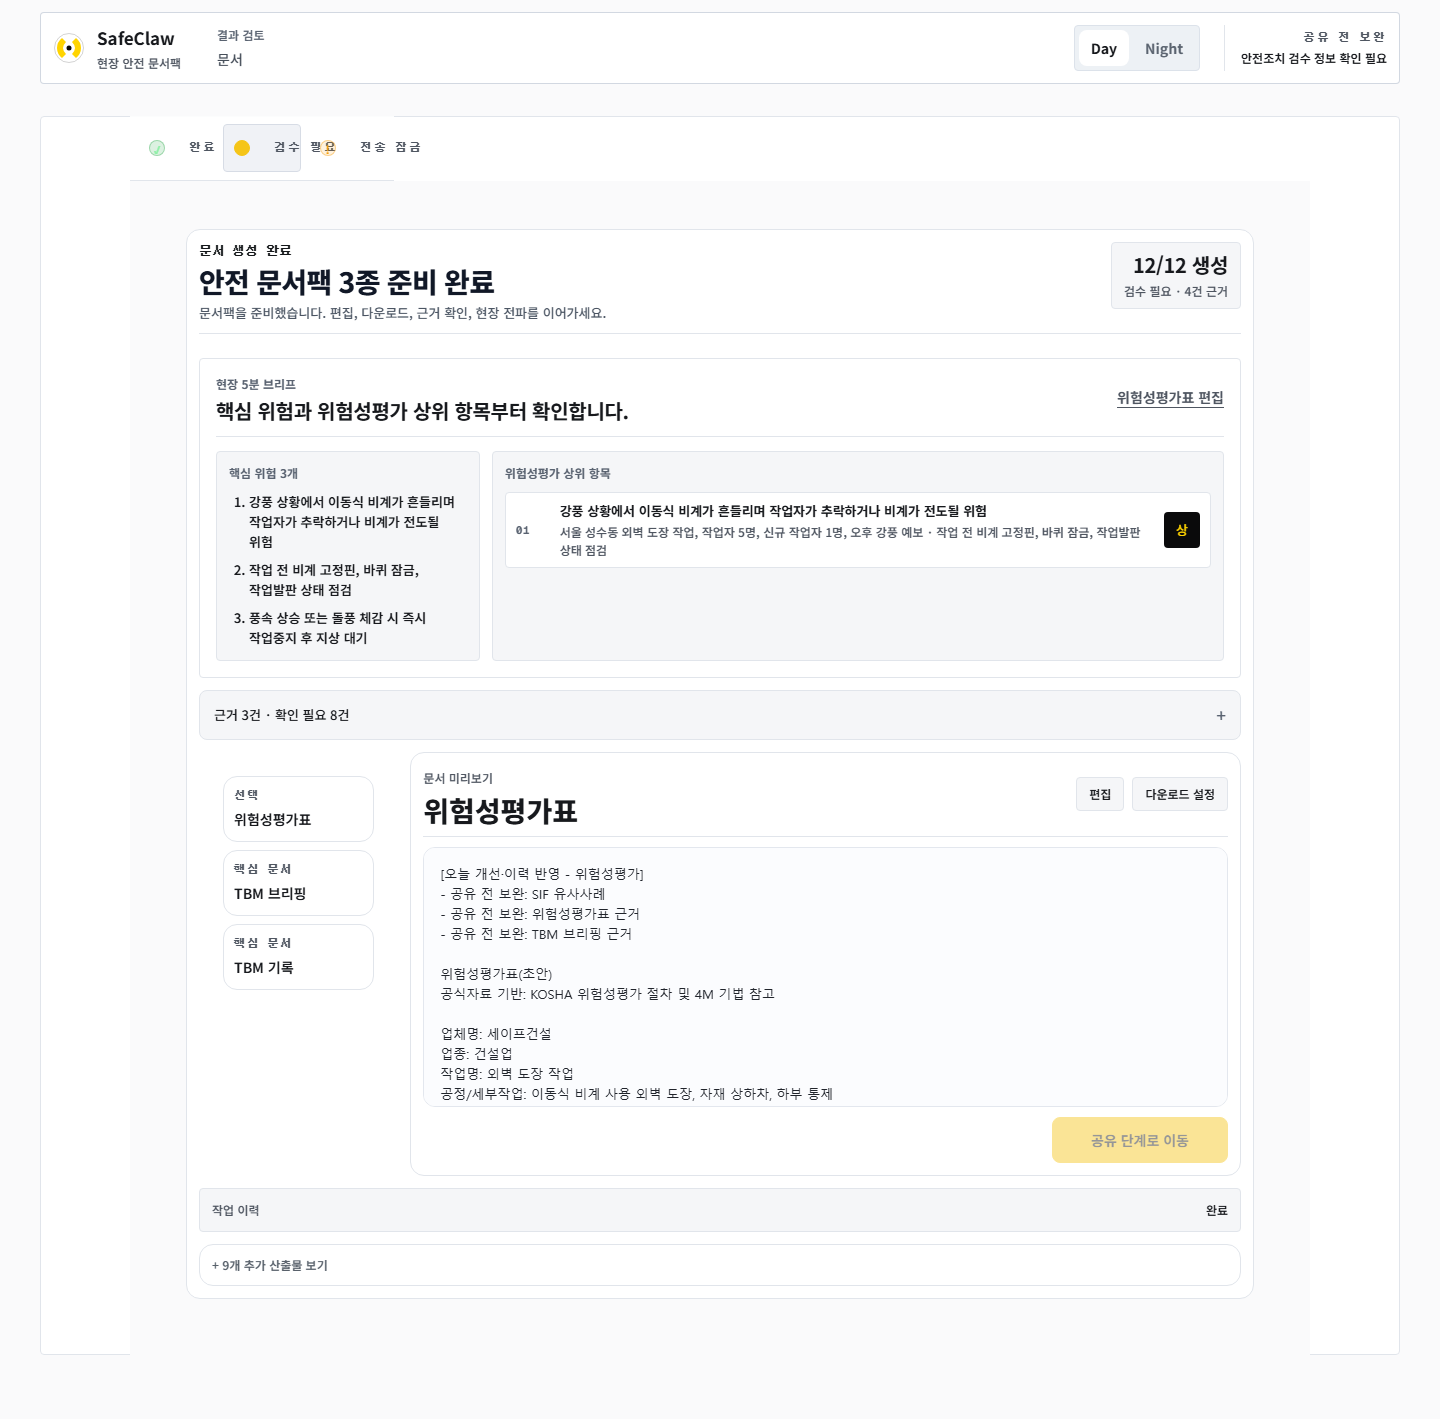
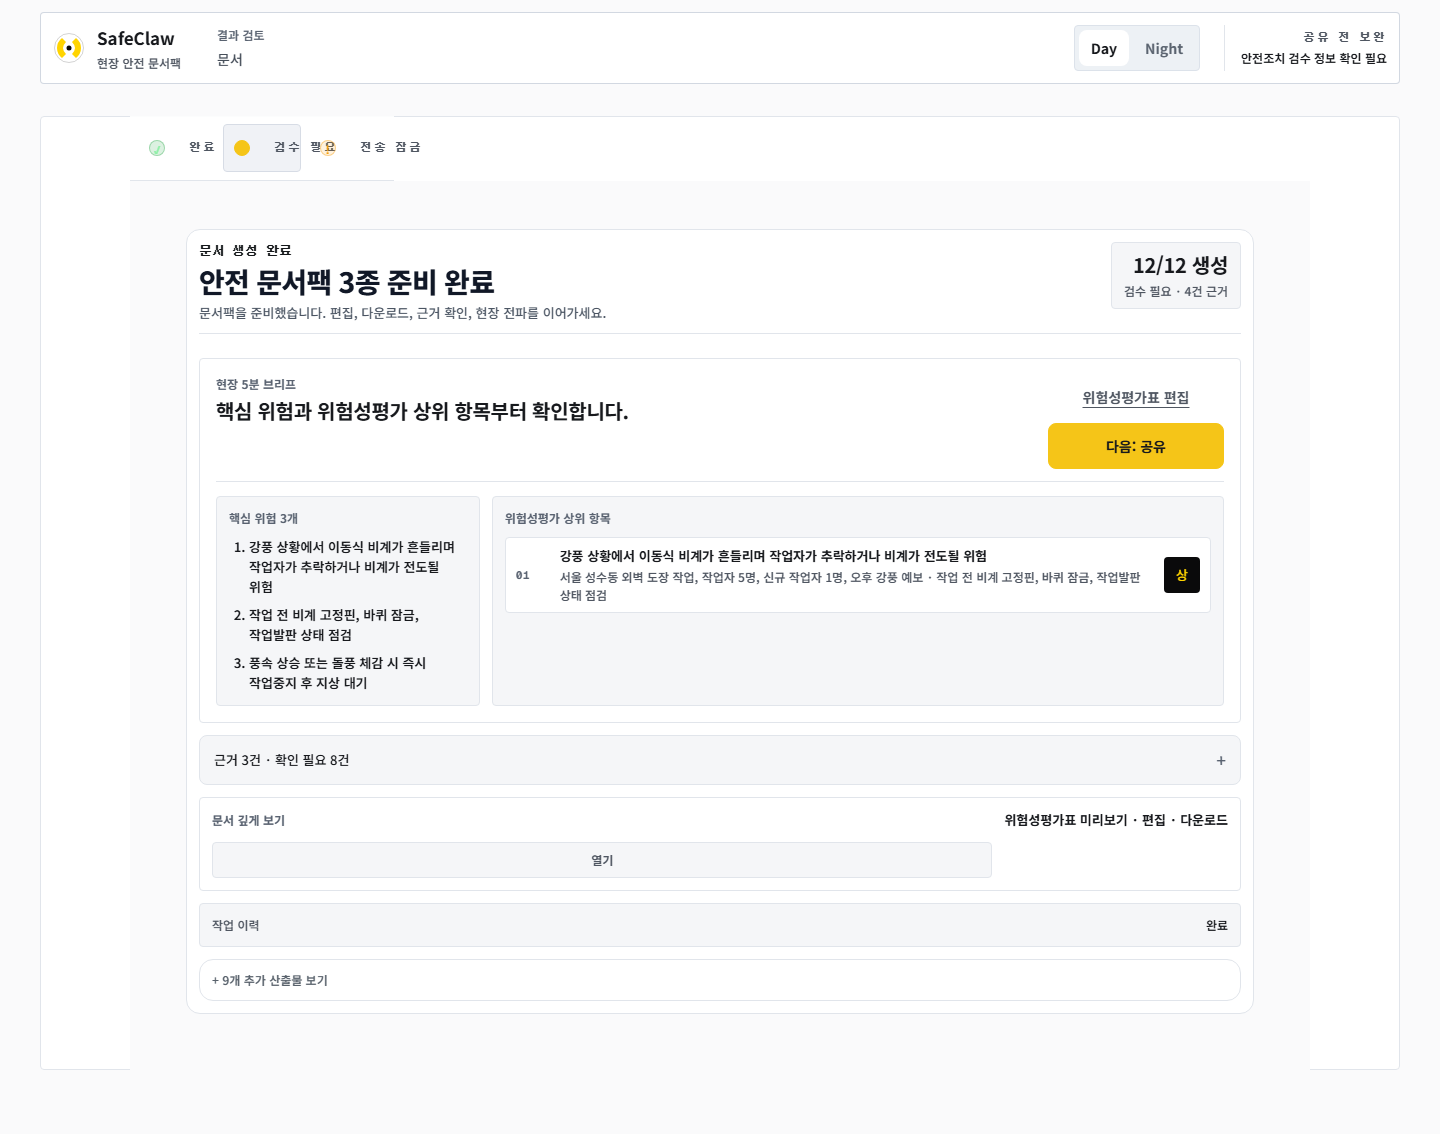
chore: record mobile fixed gate

diff --git a/evaluation/mobile-p0-workspace-gate-2026-07-20/report.md b/evaluation/mobile-p0-workspace-gate-2026-07-20/report.md
@@ -1,28 +1,29 @@
 # SafeClaw Mobile P0 Gate — 2026-07-20
 
-Verdict: **MOBILE PARTIAL**
+Verdict: **MOBILE FIXED**
 
-Production commit: `40d1f3802ac1d76963c2528dee033668d1ca58fe`
+Production commit: `58776450b2803b75751723ed2927c573f2ab5dea`
 
-The hard mobile blockers are closed on production: horizontal overflow 0, outside elements 0, sticky overlap 0, live-critical findings 0. The remaining gap is compact disclosure: generated Documents still exposes the full review surface by default, so this is not yet MOBILE FIXED.
+The 6-hour mobile gate is now closed for the generated workspace flow. The default Documents surface is a bounded Safety Brief, and full document preview/review is behind an explicit disclosure.
 
 | Surface | Height | First useful y | Overflow | Sticky | Under44 | CTA/preview |
 | --- | ---: | ---: | --- | ---: | ---: | --- |
 | Input /workspace | 1.17x | - | no | - | 3 | 생성 CTA visible |
-| Documents / Safety Brief | 2.38x | 262 | no | 0 | 0 | preview y=1232; near-top share action added |
-| Editor | 2.35x | 63 | no | 0 | - | textarea y=361 |
+| Documents / Safety Brief | 1.5x | 262 | no | 0 | 0 | deep open=false, visible previews=0 |
+| Editor / explicit deep review | 2.35x | 63 | no | 0 | - | textarea y=361 |
 | Share | 1.72x | 244 | no | 0 | 0 | CTA=1, preview y=380 |
 
-## What Improved
+## What Changed
 
+- Documents default moved full preview/edit/download behind `문서 깊게 보기`.
+- Documents mobile default changed from 2.45x to 1.5x.
 - Share mobile preview moved from y=1068 to y=380.
-- Share mobile height changed from 1.76x to 1.72x.
-- Documents mobile height changed from 2.45x to 2.38x, and the Safety Brief now has a direct share action.
+- Production live-critical sweep reports findings 0.
 
-## Remaining Debt
+## Remaining Follow-Up
 
-- Generated Documents default still needs true deep-review disclosure: the full document preview remains at y=1232.
-- MOBILE FIXED should require Documents default to keep field-mode brief and next action near-first viewport while moving full document review behind explicit selection/collapse.
+- Manager-mode deep review/editor is intentionally still longer after explicit open/edit.
+- Desktop broader IA and ontology page blockers remain separate release-ledger items.
 
 ## Evidence
 

diff --git a/evaluation/live-critical-surface-current-2026-07-20-rerun/report.md b/evaluation/live-critical-surface-current-2026-07-20-rerun/report.md
@@ -1,7 +1,7 @@
 # Live Critical Surface Current Rerun
 
-- Checked: 2026-07-20T11:19:19.014Z
-- Build marker: 40d1f3802ac1d76963c2528dee033668d1ca58fe
+- Checked: 2026-07-20T11:49:37.414Z
+- Build marker: 58776450b2803b75751723ed2927c573f2ab5dea
 - Findings: 0
 
 ## Findings
